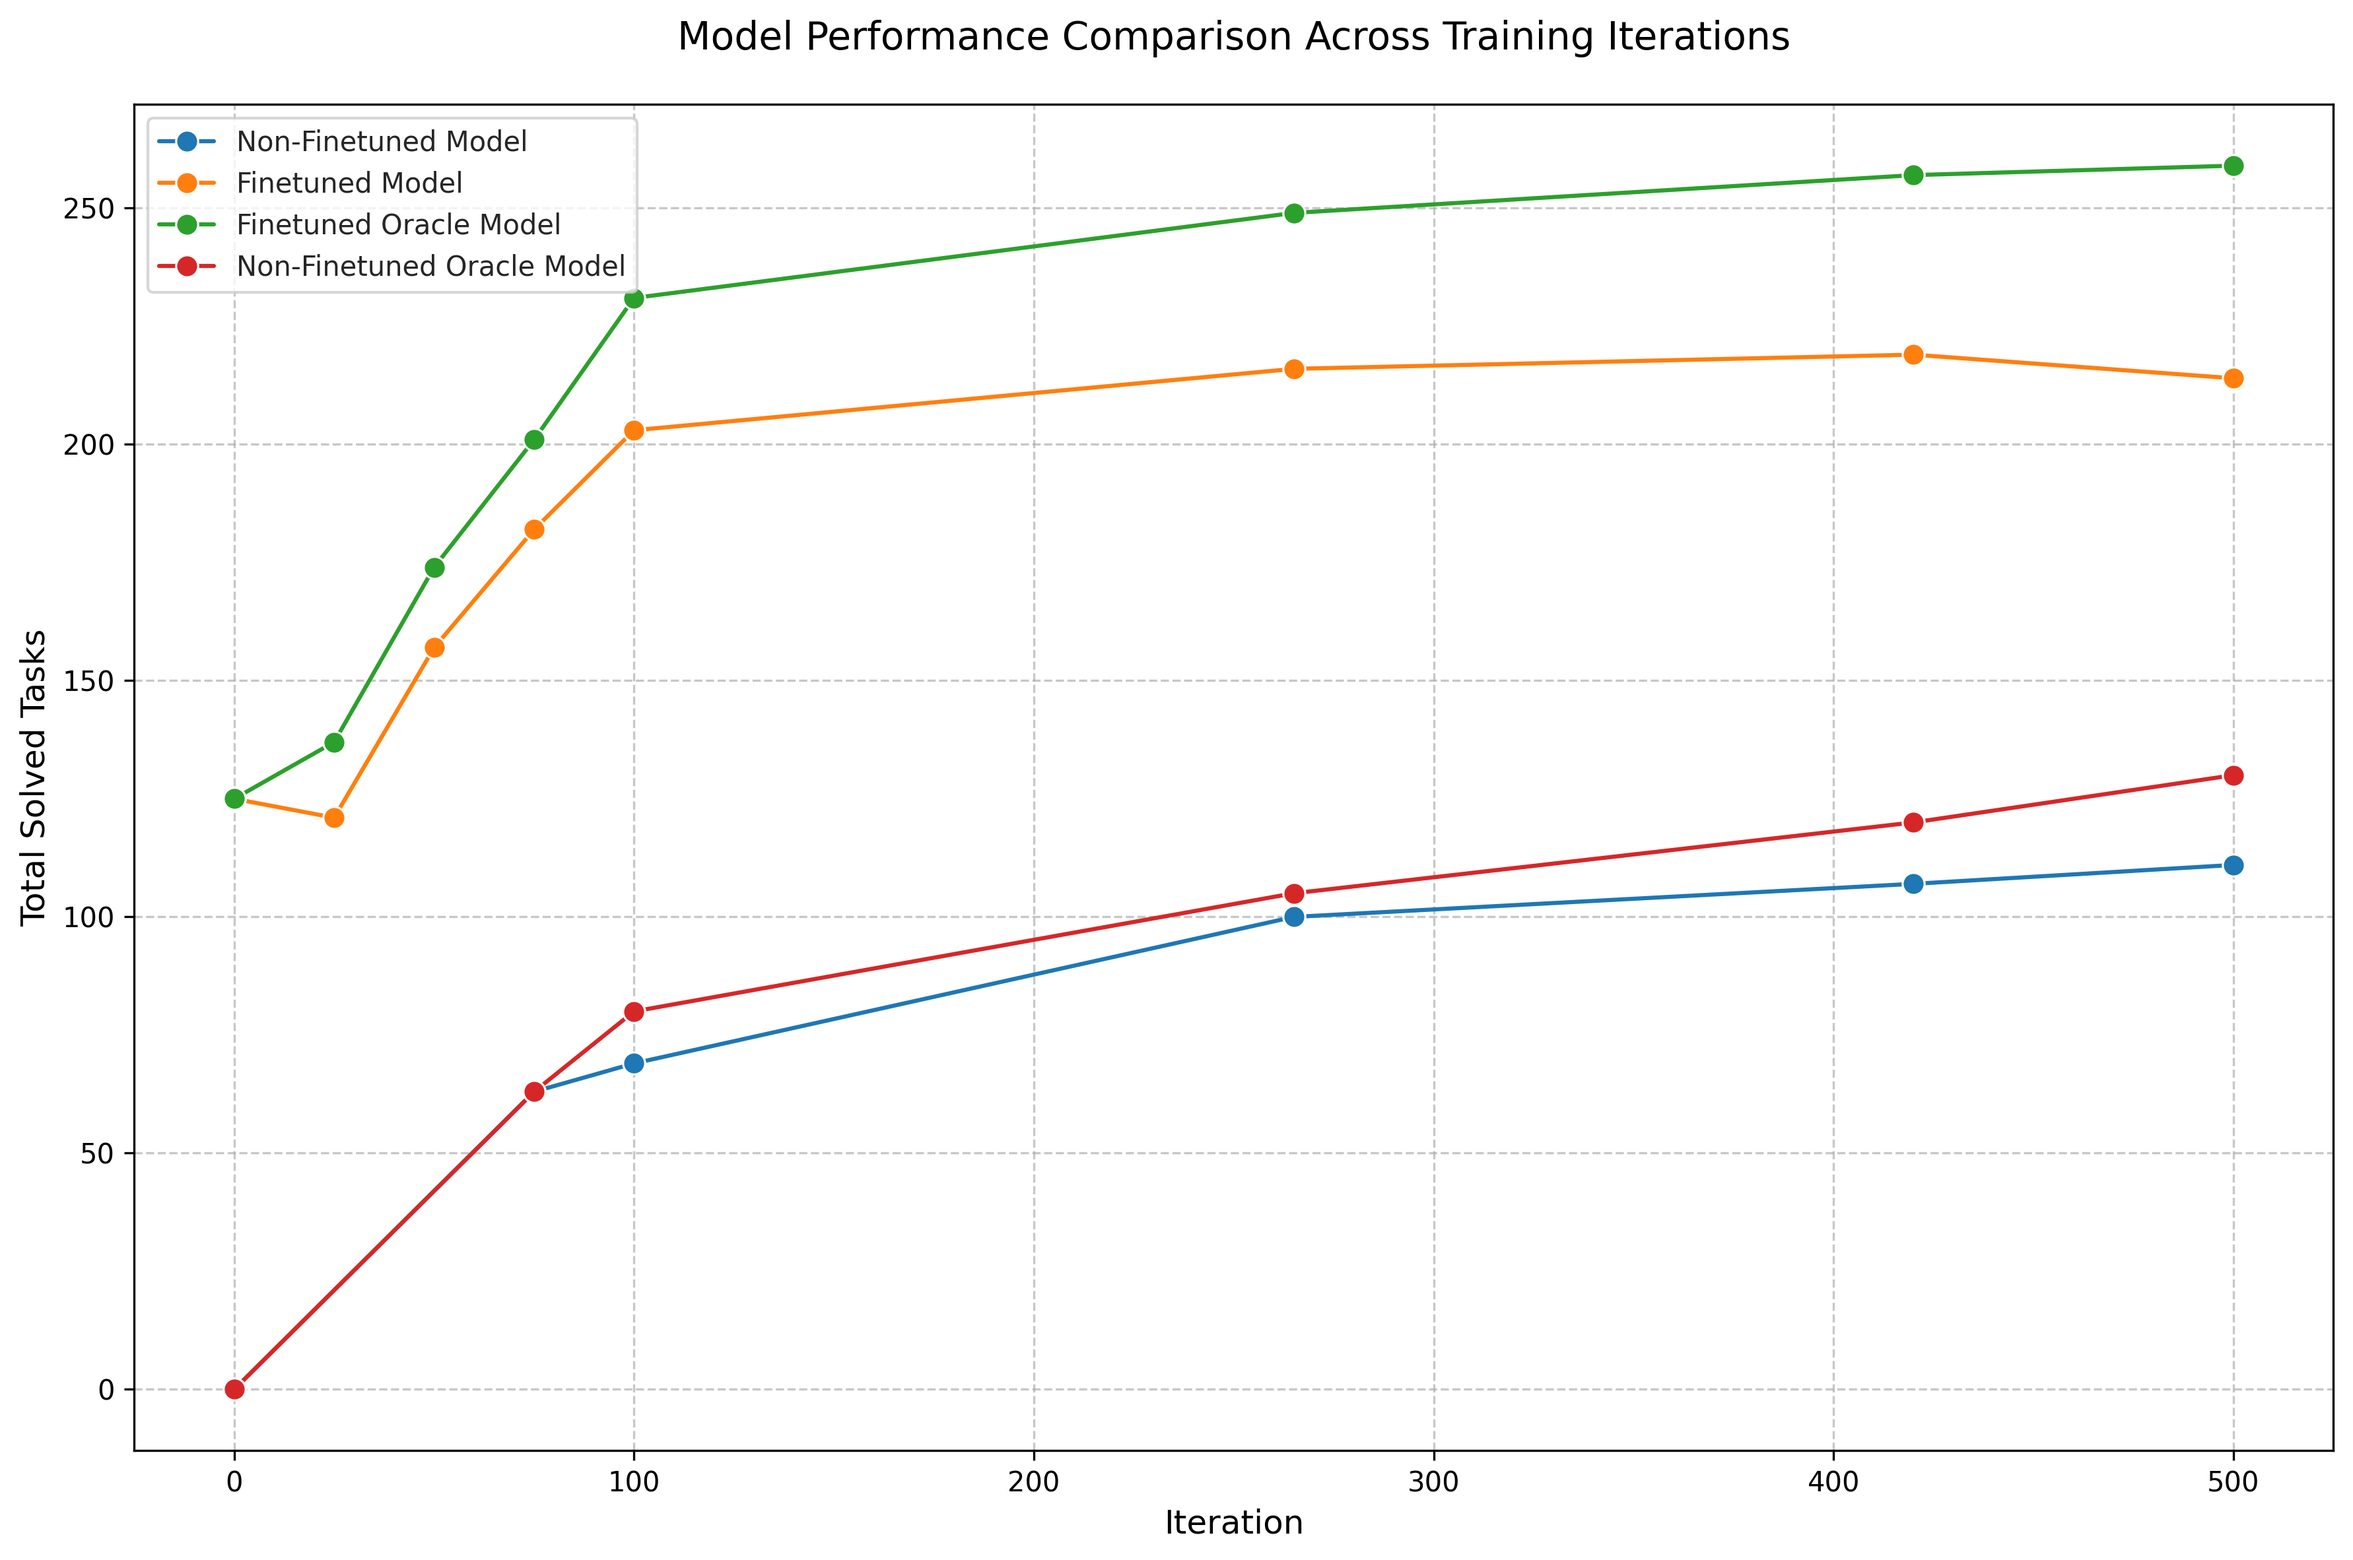
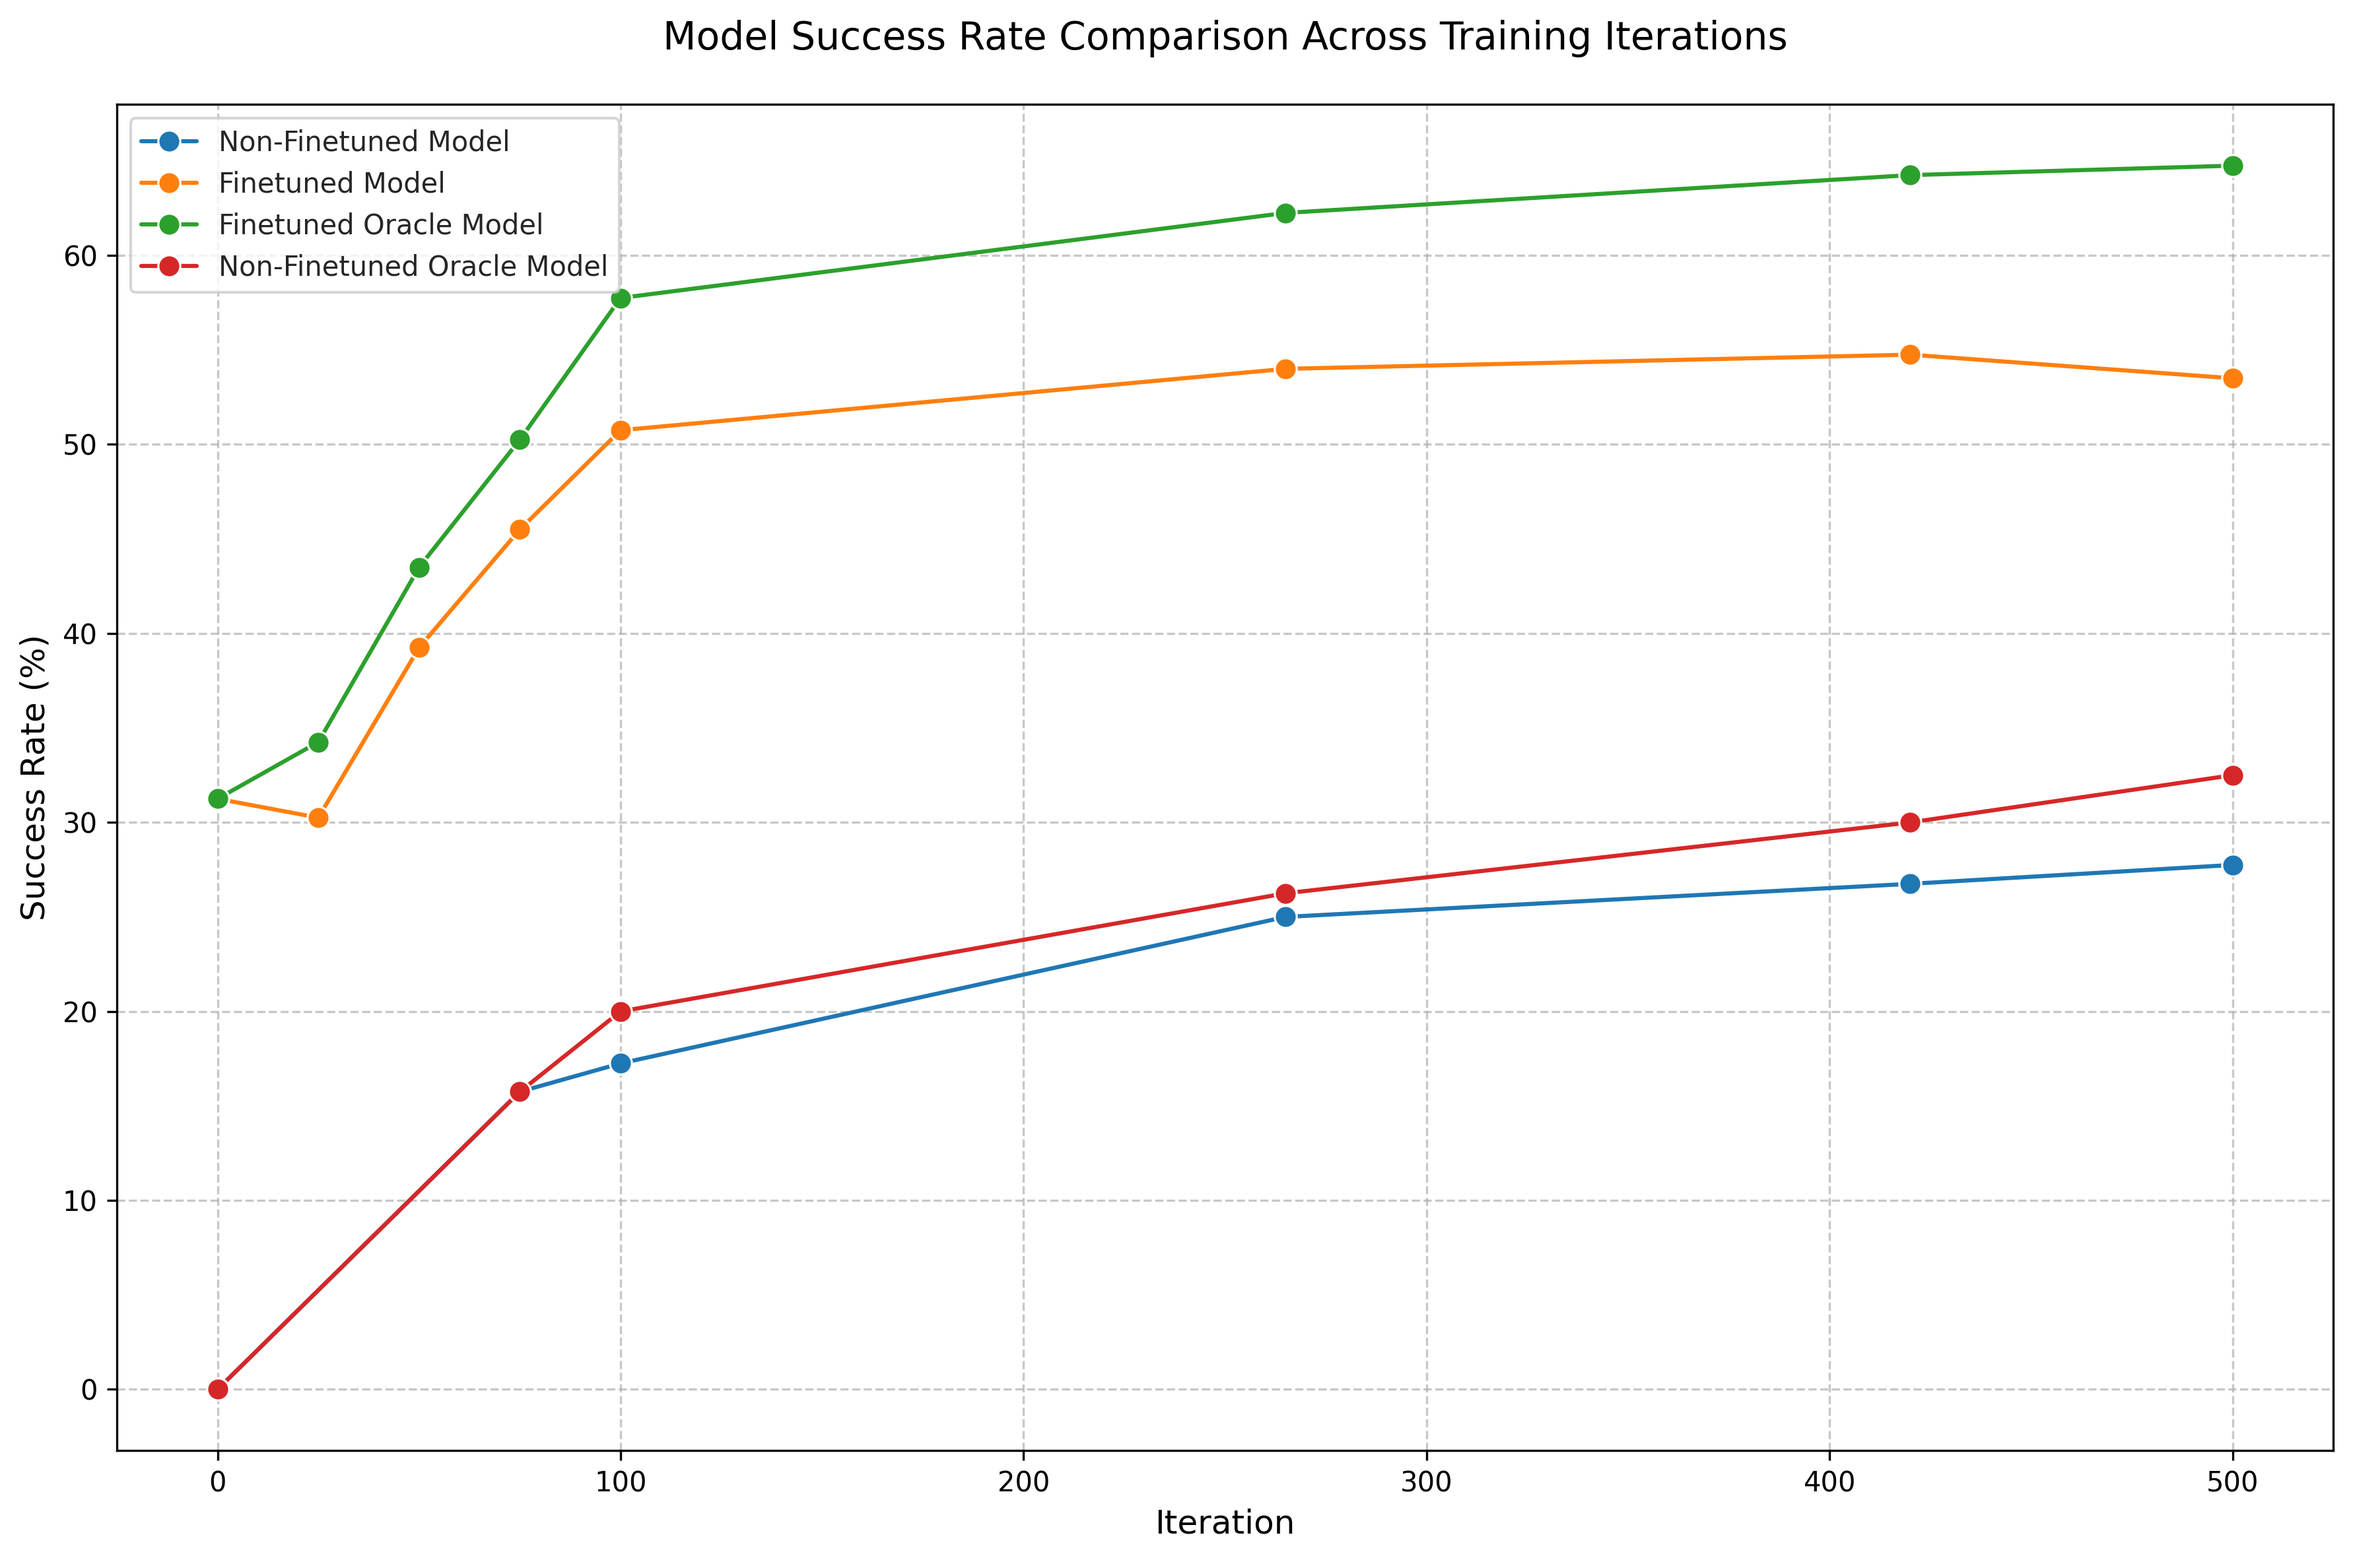
change: plot of es/ds into success rates

diff --git a/evaluation/scripts/training_progression_overall_ds.py b/evaluation/scripts/training_progression_overall_ds.py
@@ -11,18 +11,20 @@ def create_plot_data(data_path):
     # Read the CSV file
     df = pd.read_csv(data_path)
     
-    # Calculate total solved tasks for each epoch
+    # Calculate success rate for each iteration
     epoch_cols = [col for col in df.columns if col.startswith('correct_iter_')]
     
-    total_solved = []
+    success_rates = []
     for col in epoch_cols:
+        total_tasks = len(df)
         solved_count = df[col].sum()
-        total_solved.append({
+        success_rate = (solved_count / total_tasks) * 100  # Convert to percentage
+        success_rates.append({
             'Iteration': int(col.split('_')[-1]),
-            'Total Solved Tasks': solved_count
+            'Success Rate (%)': success_rate
         })
 
-    return pd.DataFrame(total_solved)
+    return pd.DataFrame(success_rates)
 
 # Create plots for all datasets
 non_finetuned_data = create_plot_data('evaluation/data_ds/ds_barc_non_finetuned_output_combined_results.csv')
@@ -34,7 +36,7 @@ non_finetuned_oracle_data = create_plot_data('evaluation/data_ds/ds_barc_non_fin
 sns.lineplot(
     data=non_finetuned_data,
     x='Iteration',
-    y='Total Solved Tasks',
+    y='Success Rate (%)',
     marker='o',
     markersize=8,
     label='Non-Finetuned Model',
@@ -44,7 +46,7 @@ sns.lineplot(
 sns.lineplot(
     data=finetuned_data,
     x='Iteration',
-    y='Total Solved Tasks',
+    y='Success Rate (%)',
     marker='o',
     markersize=8,
     label='Finetuned Model',
@@ -54,7 +56,7 @@ sns.lineplot(
 sns.lineplot(
     data=finetuned_oracle_data,
     x='Iteration',
-    y='Total Solved Tasks',
+    y='Success Rate (%)',
     marker='o',
     markersize=8,
     label='Finetuned Oracle Model',
@@ -64,7 +66,7 @@ sns.lineplot(
 sns.lineplot(
     data=non_finetuned_oracle_data,
     x='Iteration',
-    y='Total Solved Tasks',
+    y='Success Rate (%)',
     marker='o',
     markersize=8,
     label='Non-Finetuned Oracle Model',
@@ -73,9 +75,9 @@ sns.lineplot(
 
 
 # Set title and labels
-ax.set_title('Model Performance Comparison Across Training Iterations', fontsize=14, pad=20)
+ax.set_title('Model Success Rate Comparison Across Training Iterations', fontsize=14, pad=20)
 ax.set_xlabel('Iteration', fontsize=12)
-ax.set_ylabel('Total Solved Tasks', fontsize=12)
+ax.set_ylabel('Success Rate (%)', fontsize=12)
 ax.grid(True, linestyle='--', alpha=0.7)
 ax.legend(fontsize=10)
 

diff --git a/evaluation/scripts/training_progression_overall.py b/evaluation/scripts/training_progression_overall.py
@@ -11,18 +11,20 @@ def create_plot_data(data_path):
     # Read the CSV file
     df = pd.read_csv(data_path)
     
-    # Calculate total solved tasks for each epoch
+    # Calculate success rate for each epoch
     epoch_cols = [col for col in df.columns if col.startswith('correct_ep_')]
     
-    total_solved = []
+    success_rates = []
     for col in epoch_cols:
+        total_tasks = len(df)
         solved_count = df[col].sum()
-        total_solved.append({
+        success_rate = (solved_count / total_tasks) * 100  # Convert to percentage
+        success_rates.append({
             'Epoch': int(col.split('_')[-1]),
-            'Total Solved Tasks': solved_count
+            'Success Rate (%)': success_rate
         })
 
-    return pd.DataFrame(total_solved)
+    return pd.DataFrame(success_rates)
 
 # Create plots for all datasets
 non_finetuned_data = create_plot_data('evaluation/data_es/epoch_scaling_barc_non_finetuned_output_combined_results.csv')
@@ -34,7 +36,7 @@ non_finetuned_oracle_data = create_plot_data('evaluation/data_es/epoch_scaling_b
 sns.lineplot(
     data=non_finetuned_data,
     x='Epoch',
-    y='Total Solved Tasks',
+    y='Success Rate (%)',
     marker='o',
     markersize=8,
     label='Non-Finetuned Model',
@@ -44,7 +46,7 @@ sns.lineplot(
 sns.lineplot(
     data=finetuned_data,
     x='Epoch',
-    y='Total Solved Tasks',
+    y='Success Rate (%)',
     marker='o',
     markersize=8,
     label='Finetuned Model',
@@ -54,7 +56,7 @@ sns.lineplot(
 sns.lineplot(
     data=finetuned_oracle_data,
     x='Epoch',
-    y='Total Solved Tasks',
+    y='Success Rate (%)',
     marker='o',
     markersize=8,
     label='Finetuned Oracle Model',
@@ -64,7 +66,7 @@ sns.lineplot(
 sns.lineplot(
     data=non_finetuned_oracle_data,
     x='Epoch',
-    y='Total Solved Tasks',
+    y='Success Rate (%)',
     marker='o',
     markersize=8,
     label='Non-Finetuned Oracle Model',
@@ -73,9 +75,9 @@ sns.lineplot(
 
 
 # Set title and labels
-ax.set_title('Model Performance Comparison Across Training Epochs', fontsize=14, pad=20)
+ax.set_title('Model Success Rate Comparison Across Training Epochs', fontsize=14, pad=20)
 ax.set_xlabel('Epoch', fontsize=12)
-ax.set_ylabel('Total Solved Tasks', fontsize=12)
+ax.set_ylabel('Success Rate (%)', fontsize=12)
 ax.grid(True, linestyle='--', alpha=0.7)
 ax.legend(fontsize=10)
 
